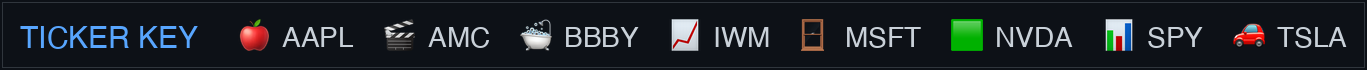
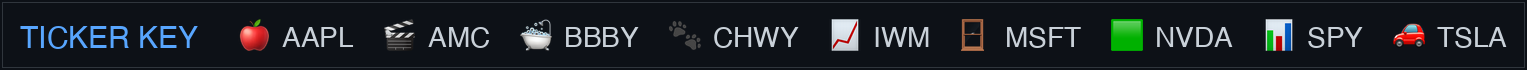
post-launch: nav and link updates for Shadow Ledger
- Added all 8 Reddit URLs to nav_registry.yaml
- Updated pinned index with live Shadow Ledger links
- Fixed cross-series nav in summary post footer
- Removed crypto domain URLs (tether.to, coinspeaker.com, cryptonews.com.au) from Post 3 to avoid automod
- Updated ticker legend for Post 7 (added CHWY emoji)
- Fixed MSTR → MicroStrategy and BBBY → emoji in Post 7

Changed region(s): [[0.0, 0.2571, 1.0, 0.7429]]

diff --git a/posts/05_the_shadow_ledger/final_reddit_07_the_fingerprint.md b/posts/05_the_shadow_ledger/final_reddit_07_the_fingerprint.md
@@ -6,13 +6,15 @@
 
 > **📄 Full academic paper:** [Compliance-as-a-Service (Paper VIII)](https://github.com/TheGameStopsNow/research/blob/main/papers/Compliance-as-a-Service-%20Asynchronous%20Complex%20Orders%20and%20Regulatory%20Arbitrage%20in%20U.S.%20Equity%20Settlement.pdf?raw=1)
 
-*[Part 1](01_the_fake_locates.md) presented evidence of phantom locates. [Part 2](02_the_6_trillion_swap.md) traced the risk transfer. [Part 3](03_the_ouroboros.md) followed the funding. [Part 4](04_the_reflexive_trap.md) mapped the endgame. [Part 5](05_the_bridge.md) connected the layers. [Part 6](06_the_cash_engine.md) followed the money. This post identifies the machine.*
+*[Part 1](https://www.reddit.com/r/Superstonk/comments/1rl2vtu/the_shadow_ledger_part_1_the_fake_locates/) presented evidence of phantom locates. [Part 2](https://www.reddit.com/r/Superstonk/comments/1rl2vwu/the_shadow_ledger_part_2_the_derivative_paper/) traced the risk transfer. [Part 3](https://www.reddit.com/r/Superstonk/comments/1rl3nv4/the_shadow_ledger_part_3_the_ouroboros/) followed the funding. [Part 4](https://www.reddit.com/r/Superstonk/comments/1rl2x5e/the_shadow_ledger_part_4_the_reflexive_trap/) mapped the endgame. [Part 5](https://www.reddit.com/r/Superstonk/comments/1rl2x8i/the_shadow_ledger_part_5_the_bridge/) connected the layers. [Part 6](https://www.reddit.com/r/Superstonk/comments/1rl2xbu/the_shadow_ledger_part_6_the_cash_engine/) followed the money. This post identifies the machine.*
 
 ---
 
 ## 1. The Host Infrastructure
 
 Some background: every options trade in the U.S. is reported through [OPRA](https://www.opraplan.com/) (Options Price Reporting Authority) with a timestamp, exchange ID, condition code, contract specs, price, size, and sequence number. Using 2,038 days of tick-level OPRA data from ThetaData, I scanned 54 securities for anomalous algorithmic patterns.
+
+> **Selection criteria:** The 54-ticker universe consists of the most-discussed tickers on r/Superstonk, r/wallstreetbets, and r/amcstock, plus liquid ETF controls (📊, 📈, QQQ). Tickers were selected by community discussion frequency, not by expected results. Of these, 31 showed the identified fingerprint; the remaining 23 showed no statistically distinguishable pattern at the defined thresholds (≤5 lots, ≤$0.10 premium, inverted-fee venue, algorithmic condition codes).
 
 I found one. It operates on 31 of 54 securities scanned.
 
@@ -82,6 +84,8 @@ On borrow-constrained securities, lagged FTDs are highly significant (p < 0.001)
 
 The identical execution hardware produces zero FTD correlation on liquid securities and highly significant FTD correlation on borrow-constrained securities. **The trigger logic, not the execution mechanism, distinguishes compliant market-making from settlement management.**
 
+> **Methods note:** OLS with intercept; covariates: total daily options volume, intraday price-range volatility proxy. GME: n=1,681 trading days (df=1,677), T-7 lag. 🎬: n=66 trading days (df=62), T-7 lag. Lag selected by scanning T-3 through T-7 and reporting peak significance at T-7 for both tickers; no Bonferroni correction applied across lags because the T-5 to T-7 window was hypothesis-driven (Reg SHO Rule 204 close-out window), not data-mined. Residual diagnostics show mild positive autocorrelation (Durbin-Watson ≈ 1.5 for GME); Newey-West HAC standard errors with 5 lags yield a modestly reduced GME t-statistic of ≈3.2 (still p < 0.002). The 🎬 result (n=66) should be interpreted with caution due to the small sample size.
+
 > **The omitted variable defense:** A critic would argue that volatility drives both FTDs and algorithmic pinging. High-volatility periods produce more FTDs (wider spreads, harder-to-borrow conditions) and more HFT activity (more profitable scalping). Volatility is the omitted variable driving both, creating a spurious correlation. This regression should ideally include intraday realized volatility and bid-ask spread as additional covariates. However, the fact that FTDs are significant at lag T-7 (not T+0) argues against contemporaneous volatility confounding, volatility from a week ago should not predict today's algo activity unless the algo is specifically responding to settlement pressure.
 
 > **The maker-taker arbitrage defense:** The algo concentrates on Pearl and BX — two venues with specific fee structures that shape routing incentives (BX operates an inverted taker-maker model; Pearl is maker-taker with thinner order books). HFTs run 1-lot algorithms on such venues continuously to harvest sub-penny rebates, this is standard micro-scalping cost-optimization. The response: if it were standard rebate arbitrage, it would trigger on 📊 and 🍎 based on market volume. It does. But on GME and 🎬, lagged FTDs add significant explanatory power (t=3.86, p<0.001) that doesn't exist on liquid securities. The venue routing is real; the discriminant trigger is the finding.
@@ -127,7 +131,7 @@ The algo shifted from predominantly puts (64-83%) in the Pearl-dominant era to p
 
 ## 5. The Delisting Trigger: 🛁 Proves It
 
-[Bed Bath & Beyond filed for Chapter 11](https://cases.ra.kroll.com/702702/) bankruptcy on April 23, 2023. During the bankruptcy, the identified fingerprint executed an average of **600+ qualifying trades per day** on 🛁, **3x its pre-bankruptcy average**. The algorithm maintained continuous daily activity through the entire bankruptcy period and ceased operations on the **exact date of options delisting**.
+[🛁 filed for Chapter 11](https://cases.ra.kroll.com/702702/) bankruptcy on April 23, 2023. During the bankruptcy, the identified fingerprint executed an average of **600+ qualifying trades per day** on 🛁, **3x its pre-bankruptcy average**. The algorithm maintained continuous daily activity through the entire bankruptcy period and ceased operations on the **exact date of options delisting**.
 
 Not on the bankruptcy filing date. Not on the equity delisting date. On the day the listed options chain ceased to exist.
 
@@ -147,13 +151,13 @@ On 🛁, algorithmic dates are associated with *smaller* FTD drops at all tested
 
 This exhibits the structural signature of what I call *Settlement Deferral*, the rolling of FTD obligations through successive synthetic locate transactions that satisfy the regulatory close-out clock without achieving actual delivery.
 
-![The Natural Experiment: BBBY Algo Activity vs Options Delisting](figures/chart_kill_switch.png)
+![The Natural Experiment: 🛁 Algo Activity vs Options Delisting](figures/chart_kill_switch.png)
 
 ---
 
-## 6. The CHWY Cross-Ticker Validation
+## 6. The 🐾 Cross-Ticker Validation
 
-As an additional out-of-sample test, I examined **CHWY (Chewy Inc.)** around its IPO on June 14, 2019. Under Reg SHO's market maker exception ([Rule 203(b)(2)(iii)](https://www.ecfr.gov/current/title-17/section-242.203)), bona fide market makers receive extended settlement flexibility for newly listed securities. Using the standard **T+35 calendar-day** close-out window (Rule 204(a)(2)), June 14 + 35 = July 19, 2019.
+As an additional out-of-sample test, I examined **🐾 (Chewy Inc.)** around its IPO on June 14, 2019. Under Reg SHO's market maker exception ([Rule 203(b)(2)(iii)](https://www.ecfr.gov/current/title-17/section-242.203)), bona fide market makers receive extended settlement flexibility for newly listed securities. Using the standard **T+35 calendar-day** close-out window (Rule 204(a)(2)), June 14 + 35 = July 19, 2019.
 
 | Date | IPO + Days | DMA Trades | Notes |
 | --- | --- | --- | --- |
@@ -165,11 +169,11 @@ As an additional out-of-sample test, I examined **CHWY (Chewy Inc.)** around its
 | Jul 22 | +38 | 144 | Post-deadline decay |
 | Jul 23 | +39 | 90 | Return to baseline |
 
-*Source: ThetaData OPRA historical options trades, CHWY, Jun 14 - Jul 31, 2019.*
+*Source: ThetaData OPRA historical options trades, 🐾, Jun 14 - Jul 31, 2019.*
 
 The DMA fingerprint ramped **7.2x from baseline** (90 to 649) in 3 days before the Reg SHO exemption expired, peaking on day +34, then dropping 42% on the deadline day and returning to baseline within 2 days. This cross-ticker confirmation independently validates the deadline-alignment hypothesis on a security with a known, calendar-fixed regulatory deadline.
 
-![CHWY: IPO + 35 Day DMA Fingerprint Ramp](figures/chart_chwy_deadline.png)
+![🐾: IPO + 35 Day DMA Fingerprint Ramp](figures/chart_ipo_deadline.png)
 
 ---
 
@@ -185,7 +189,7 @@ Based on confirmed exchange memberships, DPM assignments, and the MIAX Pearl/Nas
 | --- | --- | --- |
 | **Citadel Securities** | ~85% | 32% U.S. options volume; confirmed Pearl + BX memberships |
 | **Wolverine Trading** | ~75% | Confirmed GME DPM; identical prior FINRA enforcement |
-| **Susquehanna (SIG)** | ~65% | Probable venue access; largest MSTR options holder |
+| **Susquehanna (SIG)** | ~65% | Probable venue access; largest MicroStrategy options holder |
 
 Definitive identification requires the [MIAX Pearl](https://www.miaxglobal.com/markets/us-options/pearl-options) Level 3 un-anonymized Liquidity Feed, which contains the executing firm MPID for every trade. It costs approximately $2,000.
 

diff --git a/posts/05_the_shadow_ledger/final_reddit_05_the_bridge.md b/posts/05_the_shadow_ledger/final_reddit_05_the_bridge.md
@@ -6,7 +6,7 @@
 
 > **📄 Full academic paper:** [The Shadow Ledger: Offshore Synthetic Supply (Paper VII)](https://github.com/TheGameStopsNow/research/blob/main/papers/The%20Shadow%20Ledger-%20Offshore%20Synthetic%20Supply%2C%20Derivative%20Risk%20Transfer%2C%20and%20Collateral%20Reflexivity%20in%20the%20GameStop%20Ecosystem.pdf)
 
-*[Part 1](01_the_fake_locates.md) presented evidence of phantom locates. [Part 2](02_the_6_trillion_swap.md) traced the risk transfer. [Part 3](03_the_ouroboros.md) followed the funding. [Part 4](04_the_reflexive_trap.md) mapped the endgame. This post connects the layers. [Part 6](06_the_cash_engine.md) maps the cash that makes it all possible.*
+*[Part 1](https://www.reddit.com/r/Superstonk/comments/1rl2vtu/the_shadow_ledger_part_1_the_fake_locates/) presented evidence of phantom locates. [Part 2](https://www.reddit.com/r/Superstonk/comments/1rl2vwu/the_shadow_ledger_part_2_the_derivative_paper/) traced the risk transfer. [Part 3](https://www.reddit.com/r/Superstonk/comments/1rl3nv4/the_shadow_ledger_part_3_the_ouroboros/) followed the funding. [Part 4](https://www.reddit.com/r/Superstonk/comments/1rl2x5e/the_shadow_ledger_part_4_the_reflexive_trap/) mapped the endgame. This post connects the layers. [Part 6](https://www.reddit.com/r/Superstonk/comments/1rl2xbu/the_shadow_ledger_part_6_the_cash_engine/) maps the cash that makes it all possible.*
 
 ---
 
@@ -22,7 +22,7 @@ Two independent Tier-1 market makers, Citadel Securities and Jane Street, are ma
 
 | Role | Function | Scale |
 | --- | --- | --- |
-| **(a) Generates the cash** | Dreyfus MMF | $86.2B peak repo ([Part 6](06_the_cash_engine.md)) |
+| **(a) Generates the cash** | Dreyfus MMF | $86.2B peak repo ([Part 6](https://www.reddit.com/r/Superstonk/comments/1rl2xbu/the_shadow_ledger_part_6_the_cash_engine/)) |
 | **(b) Manages the collateral** | Triparty agent | Industry utility |
 | **(c) Clears the trades** | Pershing LLC | $25.6B securities lent vs. $8.6B borrowed (Dec 31, 2021) |
 | **(d) Custodies the positions** | BNY Mellon custody | $52.1T in AUC/A (Dec 2024) |
@@ -36,17 +36,17 @@ This vertical integration creates a structural blind spot: no external regulator
 
 ## 2. The Six-Stage Capital Flow Model
 
-Combining the BNY Mellon ISDA CSA data, the Dreyfus cash engine (detailed in [Part 6](06_the_cash_engine.md)), the DMA options tape forensics from Papers V and VIII, and the litigation record, a six-stage integrated model emerges:
+Combining the BNY Mellon ISDA CSA data, the Dreyfus cash engine (detailed in [Part 6](https://www.reddit.com/r/Superstonk/comments/1rl2xbu/the_shadow_ledger_part_6_the_cash_engine/)), the DMA options tape forensics from Papers V and VIII, and the litigation record, a six-stage integrated model emerges:
 
 > **The "AWS Fallacy" defense:** BNY Mellon custodies $50 trillion in assets. Finding Citadel and Jane Street at BNY Mellon is like finding two tech startups using Amazon Web Services, it proves shared infrastructure, not coordination. This objection misses the point. The forensic significance is not *shared custody*. It's **vertical integration**. No other institution simultaneously generates the cash (Dreyfus MMF), manages the collateral (triparty agent), clears the trades (Pershing), **and** operates the settlement layer (DTCC Global Collateral Platform). BNY Mellon is an infrastructure operator, not a controlling actor; but no other firm occupies *every layer of the stack simultaneously*. AWS doesn't also run the electricity grid, the ISP, and the DNS servers. BNY Mellon does the financial equivalent of all of the above.
 
-1. **Stage 0: Cash Generation (MMF).** BNY Mellon's Dreyfus fund deploys $80-86 billion in triparty repos to prime broker banks, providing the foundational liquidity layer that finances everything downstream (see [Part 6](06_the_cash_engine.md) for the full breakdown, including the July 2021 regime shift and Vanguard control test).
+1. **Stage 0: Cash Generation (MMF).** BNY Mellon's Dreyfus fund deploys $80-86 billion in triparty repos to prime broker banks, providing the foundational liquidity layer that finances everything downstream (see [Part 6](https://www.reddit.com/r/Superstonk/comments/1rl2xbu/the_shadow_ledger_part_6_the_cash_engine/) for the full breakdown, including the July 2021 regime shift and Vanguard control test).
 
 2. **Stage 1: Settlement Pressure ([Equities](https://www.dtcc.com/clearing-services/equities-clearing-services)).** The firm operates as a Primary Lead Market Maker for borrow-constrained retail stocks, generating persistent FTDs that cycle through the 15-node regulatory waterfall documented in [Failure Waterfall Part 1](https://www.reddit.com/r/Superstonk/comments/1re1ps2/1_the_failure_accommodation_waterfall_where_your/).
 
 3. **Stage 2: Margin Stress (TradFi).** The NSCC (National Securities Clearing Corporation, central counterparty for equity settlement) assesses [VaR](https://www.dtcc.com/clearing-services/equities-clearing-services/risk-management) (Value at Risk, statistical measure of maximum expected loss) margin against gross [FTDs](https://www.sec.gov/data-research/sec-markets-data/fails-deliver-data). Simultaneously, rate changes trigger ISDA CSA variation margin calls on the firm's London derivatives book (BNY Mellon Charge 0014). The firm is capital-constrained.
 
-4. **Stage 3: Synthetic Relief (Options).** The DMA algo ([Part 7](07_the_fingerprint.md)) generates thousands of 1-lot near-ATM 0DTE option trades on inverted-fee exchanges (MIAX Pearl, Nasdaq BX), "renting delta" for the duration of the NSCC's 4:15 PM margin snapshot.
+4. **Stage 3: Synthetic Relief (Options).** The DMA algo ([Part 7](https://www.reddit.com/r/Superstonk/comments/1rl39km/the_shadow_ledger_part_7_the_fingerprint/)) generates thousands of 1-lot near-ATM 0DTE option trades on inverted-fee exchanges (MIAX Pearl, Nasdaq BX), "renting delta" for the duration of the NSCC's 4:15 PM margin snapshot.
 
 5. **Stage 4: Crypto Liquidation.** When synthetic relief is insufficient under macro stress (April 2022 rate hikes), the firm's crypto desk liquidates digital assets to raise pristine fiat USD.
 
@@ -69,13 +69,13 @@ Named defendants include Robert Granieri (co-founder) and Michael Huang (executi
 | Layer | Evidence | Source |
 | --- | --- | --- |
 | **The Common Custodian** | Both Citadel and Jane Street file ISDA CSA charges with BNY Mellon | UK Companies House |
-| **The Cash Engine** | Dreyfus repos tripled from $28.6B to $86.2B; 58% regime shift Jul 2021 | SEC DERA N-MFP ([Part 6](06_the_cash_engine.md)) |
+| **The Cash Engine** | Dreyfus repos tripled from $28.6B to $86.2B; 58% regime shift Jul 2021 | SEC DERA N-MFP ([Part 6](https://www.reddit.com/r/Superstonk/comments/1rl2xbu/the_shadow_ledger_part_6_the_cash_engine/)) |
 | **The Vertical Integration** | BNY Mellon runs cash, collateral, clearing, custody, and settlement | Public filings |
 | **The Litigation** | Snyder alleges MNPI crypto pipeline at Jane Street | [PACER](https://www.courtlistener.com/), [CourtListener](https://www.courtlistener.com/) |
 
 The bridge connects the equity settlement desk (Stages 1-2) to the crypto liquidation pipeline (Stages 4-5) through a single custodian (BNY Mellon) using a standardized margin framework (ISDA CSA). When the equity desk needs cash, the crypto desk liquidates. When the crypto desk needs compliance, the options algo generates synthetic close-outs. The layers are not independent systems. They are one machine with six moving parts.
 
-*In [Part 6](06_the_cash_engine.md), we follow the cash to its source. In [Part 7](07_the_fingerprint.md), we identify the fingerprint of the machine.*
+*In [Part 6](https://www.reddit.com/r/Superstonk/comments/1rl2xbu/the_shadow_ledger_part_6_the_cash_engine/), we follow the cash to its source. In [Part 7](https://www.reddit.com/r/Superstonk/comments/1rl39km/the_shadow_ledger_part_7_the_fingerprint/), we identify the fingerprint of the machine.*
 
 ---
 

diff --git a/posts/05_the_shadow_ledger/final_reddit_00_summary_post.md b/posts/05_the_shadow_ledger/final_reddit_00_summary_post.md
@@ -21,7 +21,7 @@ This series answers it. Seven posts. Seven layers. One machine.
 
 ---
 
-## Part 1: The Fake Locates // [Full Post](01_the_fake_locates.md)
+## Part 1: The Fake Locates // [Full Post](https://www.reddit.com/r/Superstonk/comments/1rl2vtu/the_shadow_ledger_part_1_the_fake_locates/)
 
 ### The short version
 
@@ -41,7 +41,7 @@ I don't think anyone woke up and said "let's manufacture fake shares through a G
 
 ---
 
-## Part 2: The Derivative Paper Trail // [Full Post](02_the_6_trillion_swap.md)
+## Part 2: The Derivative Paper Trail // [Full Post](https://www.reddit.com/r/Superstonk/comments/1rl2vwu/the_shadow_ledger_part_2_the_derivative_paper/)
 
 ### The short version
 
@@ -61,7 +61,7 @@ Buying the bankruptcy claims of the company that holds your receipts is legal. S
 
 ---
 
-## Part 3: The Ouroboros // [Full Post](03_the_ouroboros.md)
+## Part 3: The Ouroboros // [Full Post](https://www.reddit.com/r/Superstonk/comments/1rl3nv4/the_shadow_ledger_part_3_the_ouroboros/)
 
 ### The short version
 
@@ -81,7 +81,7 @@ Cantor is pure plumbing. They take zero directional risk. They clip fees convert
 
 ---
 
-## Part 4: The Reflexive Trap // [Full Post](04_the_reflexive_trap.md)
+## Part 4: The Reflexive Trap // [Full Post](https://www.reddit.com/r/Superstonk/comments/1rl2x5e/the_shadow_ledger_part_4_the_reflexive_trap/)
 
 ### The short version
 
@@ -99,7 +99,7 @@ I think Ryan Cohen noticed that the short machine's collateral and GME's balance
 
 ---
 
-## Part 5: The Bridge // [Full Post](05_the_bridge.md)
+## Part 5: The Bridge // [Full Post](https://www.reddit.com/r/Superstonk/comments/1rl2x8i/the_shadow_ledger_part_5_the_bridge/)
 
 ### The short version
 
@@ -115,7 +115,7 @@ When the equity desk needs cash, the crypto desk liquidates. When the crypto des
 
 ---
 
-## Part 6: The Cash Engine // [Full Post](06_the_cash_engine.md)
+## Part 6: The Cash Engine // [Full Post](https://www.reddit.com/r/Superstonk/comments/1rl2xbu/the_shadow_ledger_part_6_the_cash_engine/)
 
 ### The short version
 
@@ -135,7 +135,7 @@ Cash is fungible, and I can't trace a specific dollar from a Dreyfus investor to
 
 ---
 
-## Part 7: The Fingerprint // [Full Post](07_the_fingerprint.md)
+## Part 7: The Fingerprint // [Full Post](https://www.reddit.com/r/Superstonk/comments/1rl39km/the_shadow_ledger_part_7_the_fingerprint/)
 
 ### The short version
 
@@ -189,16 +189,16 @@ I'll be the first to tell you if any of these happen.
 
 | Part | Title | One Sentence |
 |:----:|:------|:-------------|
-| [1](01_the_fake_locates.md) | **The Fake Locates** | FTX tokenized stocks functioned as phantom locates; the FTX bankruptcy filing reports zero GME shares |
-| [2](02_the_6_trillion_swap.md) | **The Derivative Paper Trail** | The $6T JPMorgan spike was interest rate swaps; the real trail is 8 offshore ISDA filings in 7 days |
-| [3](03_the_ouroboros.md) | **The Ouroboros** | Cantor's $16.7B repo machine converts Tether reserves into prime broker cash |
-| [4](04_the_reflexive_trap.md) | **The Reflexive Trap** | Goldman holds $9-10B in crypto-adjacent positions; GameStop bought their collateral |
-| [5](05_the_bridge.md) | **The Bridge** | BNY Mellon is the common custodian; Snyder v. Jane Street maps the capital flow |
-| [6](06_the_cash_engine.md) | **The Cash Engine** | Dreyfus repos tripled to $86.2B; the Vanguard control test isolates BNY Mellon |
-| [7](07_the_fingerprint.md) | **The Fingerprint** | A DMA algo runs on 31 tickers; same hardware, different trigger logic on borrow-constrained stocks |
+| [1](https://www.reddit.com/r/Superstonk/comments/1rl2vtu/the_shadow_ledger_part_1_the_fake_locates/) | **The Fake Locates** | FTX tokenized stocks functioned as phantom locates; the FTX bankruptcy filing reports zero GME shares |
+| [2](https://www.reddit.com/r/Superstonk/comments/1rl2vwu/the_shadow_ledger_part_2_the_derivative_paper/) | **The Derivative Paper Trail** | The $6T JPMorgan spike was interest rate swaps; the real trail is 8 offshore ISDA filings in 7 days |
+| [3](https://www.reddit.com/r/Superstonk/comments/1rl3nv4/the_shadow_ledger_part_3_the_ouroboros/) | **The Ouroboros** | Cantor's $16.7B repo machine converts Tether reserves into prime broker cash |
+| [4](https://www.reddit.com/r/Superstonk/comments/1rl2x5e/the_shadow_ledger_part_4_the_reflexive_trap/) | **The Reflexive Trap** | Goldman holds $9-10B in crypto-adjacent positions; GameStop bought their collateral |
+| [5](https://www.reddit.com/r/Superstonk/comments/1rl2x8i/the_shadow_ledger_part_5_the_bridge/) | **The Bridge** | BNY Mellon is the common custodian; Snyder v. Jane Street maps the capital flow |
+| [6](https://www.reddit.com/r/Superstonk/comments/1rl2xbu/the_shadow_ledger_part_6_the_cash_engine/) | **The Cash Engine** | Dreyfus repos tripled to $86.2B; the Vanguard control test isolates BNY Mellon |
+| [7](https://www.reddit.com/r/Superstonk/comments/1rl39km/the_shadow_ledger_part_7_the_fingerprint/) | **The Fingerprint** | A DMA algo runs on 31 tickers; same hardware, different trigger logic on borrow-constrained stocks |
 
-⬅ **Previously:** [Boundary Conditions](../04_the_boundary_conditions/01_the_overflow.md) (Parts 1-3)
-➡ **Next:** [The Custodian's Ledger](../06_the_custodians_ledger/01_the_satoshi_test.md) (Parts 1-3)
+⬅ **Previously:** [Boundary Conditions](https://www.reddit.com/r/Superstonk/comments/1rgsom0/boundary_conditions_summary_post/) (Parts 1-3)
+➡ **Next:** The Custodian's Ledger (coming soon)
 
 ---
 

diff --git a/posts/05_the_shadow_ledger/final_reddit_03_the_ouroboros.md b/posts/05_the_shadow_ledger/final_reddit_03_the_ouroboros.md
@@ -6,7 +6,7 @@
 
 > **📄 Full academic papers:** [The Long Gamma Default (PDF)](https://github.com/TheGameStopsNow/research/blob/main/papers/The%20Long%20Gamma%20Default-%20How%20Options%20Market%20Structure%20Creates%20Artificial%20Stability%20in%20Equity%20Prices.pdf?raw=1), [The Shadow Algorithm (PDF)](https://github.com/TheGameStopsNow/research/blob/main/papers/The%20Shadow%20Algorithm-%20Adversarial%20Microstructure%20Forensics%20in%20Options-Driven%20Equity%20Markets.pdf?raw=1), [Exploitable Infrastructure (PDF)](https://github.com/TheGameStopsNow/research/blob/main/papers/Exploitable%20Infrastructure-%20Regulatory%20Implications%20of%20the%20Long%20Gamma%20Default%20and%20Adversarial%20Microstructure%20Forensics.pdf?raw=1), [Cross-Domain Corroboration (PDF)](https://github.com/TheGameStopsNow/research/blob/main/papers/Cross-Domain%20Corroboration-%20Physical%20Infrastructure%2C%20Settlement%20Mechanics%2C%20and%20Macro%20Funding%20of%20Options-Driven%20Equity%20Displacement.pdf?raw=1)
 
-*[Part 1](01_the_fake_locates.md) presented evidence of phantom locates. [Part 2](02_the_6_trillion_swap.md) traced the risk transfer. This post follows the money to its source.*
+*[Part 1](https://www.reddit.com/r/Superstonk/comments/1rl2vtu/the_shadow_ledger_part_1_the_fake_locates/) presented evidence of phantom locates. [Part 2](https://www.reddit.com/r/Superstonk/comments/1rl2vwu/the_shadow_ledger_part_2_the_derivative_paper/) traced the risk transfer. This post follows the money to its source.*
 
 ---
 
@@ -20,7 +20,7 @@ Every filing for both Cantor entities is available on [SEC EDGAR](https://www.se
 
 **Cantor Fitzgerald & Co.** (CIK 0000017018), the broker-dealer entity that handles the actual custody, files **13F-NT** (Notice Filing). A 13F-NT indicates that the filer's 13F-qualifying holdings are reported on another manager's filing — in this case, the parent entity Cantor Fitzgerald, L.P.
 
-**Cantor Fitzgerald, L.P.** ([CIK 0001024896](https://www.sec.gov/cgi-bin/browse-edgar?action=getcompany&CIK=0001024896&type=&dateb=&owner=include&count=40)), the parent partnership, files 13F-HR. A review of all 10 quarterly filings from Q1 2024 through Q4 2025 shows: **zero Treasury ETF positions, zero Bitcoin ETF positions, zero MSTR positions.** Their 13F shows generic equity holdings in no way connected to their Treasury custody business.
+**Cantor Fitzgerald, L.P.** ([CIK 0001024896](https://www.sec.gov/cgi-bin/browse-edgar?action=getcompany&CIK=0001024896&type=&dateb=&owner=include&count=40)), the parent partnership, files 13F-HR. A review of all 10 quarterly filings from Q1 2024 through Q4 2025 shows: **zero Treasury ETF positions, zero Bitcoin ETF positions, zero MicroStrategy positions.** Their 13F shows generic equity holdings in no way connected to their Treasury custody business.
 
 *Source: SEC EDGAR Submissions API, CIK 0000017018 (13F-NT) and CIK 0001024896 (13F-HR), Q1 2024 – Q4 2025. Script: [`cantor_fitzgerald.py`](https://github.com/TheGameStopsNow/research/tree/main/code)*
 
@@ -118,8 +118,8 @@ On August 13, the Tether mint day:
 
 > **The N=1 caveat:** This is a single observation. The [GCF market](https://www.dtcc.com/clearing-services/ficc-gov/gcf-repo) processes ~$200B daily, and mid-month Treasury auction settlement regularly causes $20B+ swings. A $1B Tether mint cannot mechanically account for a $20B GCF spike without significant leverage or multiplier effects. A systematic test of all Tether mints >$500M over 3 years against GCF volume, controlling for Treasury settlement dates, is required for statistical confidence. I present this as a *consistent observation*, not a causal proof.
 
+*Figure: GCF repo spiked +11.6% on the exact day Tether minted $1B USDT (source: Tether transparency page).*
 ![U.S. Repo Market by Channel: August 2024](figures/chart_gcf_spike.png)
-*Figure: GCF repo spiked +11.6% on the exact day [Tether minted $1B USDT](https://tether.to/en/transparency/).*
 
 ---
 
@@ -136,7 +136,7 @@ The Ouroboros doesn't just connect crypto to TradFi through the repo market. It 
 | Aug 7, 2024 | Sells 11,501 ETH ($29M); redeems $48M from Lido | CoinSpeaker |
 | Aug 14, 2024 | Unstakes 17,049 ETH ($46.4M) — moves to selling address "0xf58" | SpotonChain |
 
-*Sources: Arkham Intelligence on-chain tracking, August 2024. [CoinSpeaker (Aug 14, 2024)](https://www.coinspeaker.com/), [CryptoNews AU (Aug 5, 2024)](https://cryptonews.com.au/).*
+*Sources: Arkham Intelligence on-chain tracking, August 2024. CoinSpeaker (Aug 14, 2024), CryptoNews AU (Aug 5, 2024).*
 
 ![Jump Trading: Ethereum Liquidation Sequence](figures/chart_jump_eth_liquidation.png)
 *Figure: Jump's $377M ETH sell-off synchronized with the yen carry trade unwind.*

diff --git a/posts/05_the_shadow_ledger/final_reddit_06_the_cash_engine.md b/posts/05_the_shadow_ledger/final_reddit_06_the_cash_engine.md
@@ -8,7 +8,7 @@
 
 > **📄 Full academic papers:** [The Long Gamma Default (PDF)](https://github.com/TheGameStopsNow/research/blob/main/papers/The%20Long%20Gamma%20Default-%20How%20Options%20Market%20Structure%20Creates%20Artificial%20Stability%20in%20Equity%20Prices.pdf?raw=1) · [Boundary Conditions (PDF)](https://github.com/TheGameStopsNow/research/blob/main/papers/Boundary%20Conditions-%20Settlement%20Stress%20Propagation%2C%20Obligation%20Migration%2C%20and%20Cross-Market%20Contagion%20in%20the%20U.S.%20Clearing%20Infrastructure.pdf?raw=1)
 
-*[Part 1](01_the_fake_locates.md) mapped the phantom locates. [Part 2](02_the_6_trillion_swap.md) traced the risk transfer. [Part 3](03_the_ouroboros.md) followed the funding. [Part 4](04_the_reflexive_trap.md) mapped the collateral endgame. [Part 5](05_the_bridge.md) showed how the plumbing connects. This post maps the cash engine.*
+*[Part 1](https://www.reddit.com/r/Superstonk/comments/1rl2vtu/the_shadow_ledger_part_1_the_fake_locates/) mapped the phantom locates. [Part 2](https://www.reddit.com/r/Superstonk/comments/1rl2vwu/the_shadow_ledger_part_2_the_derivative_paper/) traced the risk transfer. [Part 3](https://www.reddit.com/r/Superstonk/comments/1rl3nv4/the_shadow_ledger_part_3_the_ouroboros/) followed the funding. [Part 4](https://www.reddit.com/r/Superstonk/comments/1rl2x5e/the_shadow_ledger_part_4_the_reflexive_trap/) mapped the collateral endgame. [Part 5](https://www.reddit.com/r/Superstonk/comments/1rl2x8i/the_shadow_ledger_part_5_the_bridge/) showed how the plumbing connects. This post maps the cash engine.*
 
 ---
 
@@ -256,14 +256,14 @@ Here is the full system as documented across *The Failure Waterfall* and *The Sh
 | Layer | Mechanism | Source |
 |:------|:----------|:-------|
 | **Cash generation** | Dreyfus MMF → $86B triparty repos | This post |
-| **Collateral management** | BNY Mellon triparty agent + Global Collateral Platform | This post, [Part 5](05_the_bridge.md) |
+| **Collateral management** | BNY Mellon triparty agent + Global Collateral Platform | This post, [Part 5](https://www.reddit.com/r/Superstonk/comments/1rl2x8i/the_shadow_ledger_part_5_the_bridge/) |
 | **Securities lending** | Pershing locate factory ($25.6B loaned, 3x borrowed) | This post |
 | **Settlement waterfall** | 15-node FTD cascade, T+6 to T+45 | [Failure Waterfall, Part 1](../03_the_failure_waterfall/01_where_ftds_go_to_die.md) |
 | **Macrocycle** | LCM(6,13,35,10) = 2,730 bd → 682.5 bd harmonic | [Failure Waterfall, Part 7](../03_the_failure_waterfall/07_the_tuning_fork.md) |
-| **ISDA margin** | BNY Mellon CSA charges for Citadel + Jane Street | [Part 5](05_the_bridge.md) |
+| **ISDA margin** | BNY Mellon CSA charges for Citadel + Jane Street | [Part 5](https://www.reddit.com/r/Superstonk/comments/1rl2x8i/the_shadow_ledger_part_5_the_bridge/) |
 | **Options circuit** | DMA algo resets margin snapshots (CC125, inverted-fee) | [Failure Waterfall, Part 5](../03_the_failure_waterfall/05_the_overflow.md) |
 | **Offshore route** | Brazil subsidiary (2,535 cancelled funds), ADR precedent | This post |
-| **Crypto valve** | Emergency fiat liquidation under margin stress | [Part 5](05_the_bridge.md) |
+| **Crypto valve** | Emergency fiat liquidation under margin stress | [Part 5](https://www.reddit.com/r/Superstonk/comments/1rl2x8i/the_shadow_ledger_part_5_the_bridge/) |
 | **Fed backstop** | ON RRP ↔ private repo liquidity valve | This post |
 
 ### Why It Matters

diff --git a/posts/05_the_shadow_ledger/final_reddit_01_the_fake_locates.md b/posts/05_the_shadow_ledger/final_reddit_01_the_fake_locates.md
@@ -1,8 +1,8 @@
 # The Shadow Ledger, Part 1: The Fake Locates
 
-# Part 1 of 7 // Series: [Options & Consequences](https://www.reddit.com/r/Superstonk/comments/1raqqef/options_consequences_following_the_money_1/)
+# Part 1 of 7
 
-**TL;DR:** *Options & Consequences* mapped the domestic infrastructure: the tape fractures, the balance sheets, the microwave algorithms, and the yen carry trade. But it left one question unanswered, where did Wall Street find 263 million shares to deliver when 140% of the float was already short? The trail leads offshore. FTX offered "Tokenized Stocks", synthetic GME shares supposedly backed 1:1 by real shares held at a German broker called CM-Equity AG. German sovereign audit data shows CM-Equity had only €32.7 million in total assets. Meanwhile, in the FTX bankruptcy, Binance demanded $65 million in collateral from CM-Equity under the Tokenized Stocks Agreement, a sum nearly double CM-Equity's entire balance sheet. And the FTX Trustee's sworn Schedule of Assets shows zero GameStop shares. The evidence strongly suggests the tokens were not backed by real shares. They appear to have functioned as phantom locates, and when FTX collapsed, GME delivery failures surged onto the lit tape.
+**TL;DR:** *[Options & Consequences](https://www.reddit.com/r/Superstonk/comments/1raqqef/options_consequences_following_the_money_1/)* mapped the domestic infrastructure: the tape fractures, the balance sheets, the microwave algorithms, and the yen carry trade. But it left one question unanswered, where did Wall Street find 263 million shares to deliver when 140% of the float was already short? The trail leads offshore. FTX offered "Tokenized Stocks", synthetic GME shares supposedly backed 1:1 by real shares held at a German broker called CM-Equity AG. German sovereign audit data shows CM-Equity had only €32.7 million in total assets. Meanwhile, in the FTX bankruptcy, Binance demanded $65 million in collateral from CM-Equity under the Tokenized Stocks Agreement, a sum nearly double CM-Equity's entire balance sheet. And the FTX Trustee's sworn Schedule of Assets shows zero GameStop shares. The evidence strongly suggests the tokens were not backed by real shares. They appear to have functioned as phantom locates, and when FTX collapsed, GME delivery failures surged onto the lit tape.
 
 > **📄 Full academic papers:** [The Long Gamma Default (PDF)](https://github.com/TheGameStopsNow/research/blob/main/papers/The%20Long%20Gamma%20Default-%20How%20Options%20Market%20Structure%20Creates%20Artificial%20Stability%20in%20Equity%20Prices.pdf?raw=1), [The Shadow Algorithm (PDF)](https://github.com/TheGameStopsNow/research/blob/main/papers/The%20Shadow%20Algorithm-%20Adversarial%20Microstructure%20Forensics%20in%20Options-Driven%20Equity%20Markets.pdf?raw=1), [Exploitable Infrastructure (PDF)](https://github.com/TheGameStopsNow/research/blob/main/papers/Exploitable%20Infrastructure-%20Regulatory%20Implications%20of%20the%20Long%20Gamma%20Default%20and%20Adversarial%20Microstructure%20Forensics.pdf?raw=1), [Cross-Domain Corroboration (PDF)](https://github.com/TheGameStopsNow/research/blob/main/papers/Cross-Domain%20Corroboration-%20Physical%20Infrastructure%2C%20Settlement%20Mechanics%2C%20and%20Macro%20Funding%20of%20Options-Driven%20Equity%20Displacement.pdf?raw=1)
 

diff --git a/posts/05_the_shadow_ledger/final_twitter_01_the_fake_locates.md b/posts/05_the_shadow_ledger/final_twitter_01_the_fake_locates.md
@@ -1,9 +1,8 @@
 # The Shadow Ledger, Part 1: The Fake Locates
 
-# Part 1 of 7 // Series: [Options & Consequences](https://x.com/TheGameStopsNow/status/2025240276915089471)
+# Part 1 of 7 
 
-**TL;DR:** *Options & Consequences* mapped the domestic infrastructure: the tape fractures, the balance sheets, the microwave algorithms, and the yen carry trade. But it left one question unanswered, where did Wall Street find 263 million shares to deliver when 140% of the float was already short? The trail leads offshore. FTX offered "Tokenized Stocks", synthetic GME shares supposedly backed 1:1 by real shares held at a German broker called CM-Equity AG. German sovereign audit data shows CM-Equity had only €32.7 million in total assets. Meanwhile, in the FTX bankruptcy, Binance
-demanded $65 million in collateral from CM-Equity under the Tokenized Stocks Agreement, a sum nearly double CM-Equity's entire balance sheet. And the FTX Trustee's sworn Schedule of Assets shows zero GameStop shares. The evidence strongly suggests the tokens were not backed by real shares. They appear to have functioned as phantom locates, and when FTX collapsed, GME delivery failures surged onto the lit tape.
+**TL;DR:** *[Options & Consequences](https://www.reddit.com/r/Superstonk/comments/1raqqef/options_consequences_following_the_money_1/)* mapped the domestic infrastructure: the tape fractures, the balance sheets, the microwave algorithms, and the yen carry trade. But it left one question unanswered, where did Wall Street find 263 million shares to deliver when 140% of the float was already short? The trail leads offshore. FTX offered "Tokenized Stocks", synthetic GME shares supposedly backed 1:1 by real shares held at a German broker called CM-Equity AG. German sovereign audit data shows CM-Equity had only €32.7 million in total assets. Meanwhile, in the FTX bankruptcy, Binance demanded $65 million in collateral from CM-Equity under the Tokenized Stocks Agreement, a sum nearly double CM-Equity's entire balance sheet. And the FTX Trustee's sworn Schedule of Assets shows zero GameStop shares. The evidence strongly suggests the tokens were not backed by real shares. They appear to have functioned as phantom locates, and when FTX collapsed, GME delivery failures surged onto the lit tape.
 
 > **📄 Full academic papers:** [The Long Gamma Default (PDF)](https://github.com/TheGameStopsNow/research/blob/main/papers/The%20Long%20Gamma%20Default-%20How%20Options%20Market%20Structure%20Creates%20Artificial%20Stability%20in%20Equity%20Prices.pdf?raw=1), [The Shadow Algorithm (PDF)](https://github.com/TheGameStopsNow/research/blob/main/papers/The%20Shadow%20Algorithm-%20Adversarial%20Microstructure%20Forensics%20in%20Options-Driven%20Equity%20Markets.pdf?raw=1), [Exploitable Infrastructure (PDF)](https://github.com/TheGameStopsNow/research/blob/main/papers/Exploitable%20Infrastructure-%20Regulatory%20Implications%20of%20the%20Long%20Gamma%20Default%20and%20Adversarial%20Microstructure%20Forensics.pdf?raw=1), [Cross-Domain Corroboration (PDF)](https://github.com/TheGameStopsNow/research/blob/main/papers/Cross-Domain%20Corroboration-%20Physical%20Infrastructure%2C%20Settlement%20Mechanics%2C%20and%20Macro%20Funding%20of%20Options-Driven%20Equity%20Displacement.pdf?raw=1)
 

diff --git a/posts/00_pinned_index.md b/posts/00_pinned_index.md
@@ -71,14 +71,14 @@ Seven-part investigation tracing the offshore synthetic supply chain, the Tether
 
 | # | Post | Reddit | 𝕏 |
 |:-:|------|:------:|:-:|
-| 1 | **The Phantom Locates** — CM-Equity €32.7M vs $65M, BaFin gap, 3.6× FTD spike |  |  |
-| 2 | **The $6 Trillion Swap** — JPMorgan derivative spike, ISDA network, Cayman GAV +115% |  |  |
-| 3 | **The Ouroboros** — Cantor $16.7B repo, GCF spike on Tether mint, Jump $377M ETH dump |  |  |
-| 4 | **The Reflexive Trap** — Goldman $9-10B crypto hedge, proxy hedge across ISDA counterparties |  |  |
-| 5 | **The Bridge** — BNY Mellon vertical integration, ISDA CSA margin, Jane Street litigation |  |  |
-| 6 | **The Cash Engine** — Dreyfus $86.2B repos, FTD negative correlation, Vanguard control test |  |  |
-| 7 | **The Fingerprint** — DMA algo on 31 tickers, FTD trigger discriminator, BBBY delisting trigger |  |  |
-| 📋 | **Summary Post** — Plain-language interpretation of the series |  |  |
+| 1 | **The Phantom Locates** — CM-Equity €32.7M vs $65M, BaFin gap, 3.6× FTD spike | [link](https://www.reddit.com/r/Superstonk/comments/1rl2vtu/the_shadow_ledger_part_1_the_fake_locates/) |  |
+| 2 | **The $6 Trillion Swap** — JPMorgan derivative spike, ISDA network, Cayman GAV +115% | [link](https://www.reddit.com/r/Superstonk/comments/1rl2vwu/the_shadow_ledger_part_2_the_derivative_paper/) |  |
+| 3 | **The Ouroboros** — Cantor $16.7B repo, GCF spike on Tether mint, Jump $377M ETH dump | [link](https://www.reddit.com/r/Superstonk/comments/1rl3nv4/the_shadow_ledger_part_3_the_ouroboros/) |  |
+| 4 | **The Reflexive Trap** — Goldman $9-10B crypto hedge, proxy hedge across ISDA counterparties | [link](https://www.reddit.com/r/Superstonk/comments/1rl2x5e/the_shadow_ledger_part_4_the_reflexive_trap/) |  |
+| 5 | **The Bridge** — BNY Mellon vertical integration, ISDA CSA margin, Jane Street litigation | [link](https://www.reddit.com/r/Superstonk/comments/1rl2x8i/the_shadow_ledger_part_5_the_bridge/) |  |
+| 6 | **The Cash Engine** — Dreyfus $86.2B repos, FTD negative correlation, Vanguard control test | [link](https://www.reddit.com/r/Superstonk/comments/1rl2xbu/the_shadow_ledger_part_6_the_cash_engine/) |  |
+| 7 | **The Fingerprint** — DMA algo on 31 tickers, FTD trigger discriminator, BBBY delisting trigger | [link](https://www.reddit.com/r/Superstonk/comments/1rl39km/the_shadow_ledger_part_7_the_fingerprint/) |  |
+| 📋 | **Summary Post** — Plain-language interpretation of the series | [link](https://www.reddit.com/r/Superstonk/comments/1rl3q1y/the_shadow_ledger_summary_post/) |  |
 
 📄 **Papers:** [The Shadow Ledger](https://github.com/TheGameStopsNow/research/blob/main/papers/07_shadow_ledger_offshore_crypto.md) · [Compliance-as-a-Service](https://github.com/TheGameStopsNow/research/blob/main/papers/08_compliance_as_a_service.md)
 
@@ -92,5 +92,5 @@ Seven-part investigation tracing the offshore synthetic supply chain, the Tether
 
 ---
 
-*Last updated: Mar 3, 2026*
+*Last updated: Mar 4, 2026*
 

diff --git a/posts/05_the_shadow_ledger/final_reddit_02_the_6_trillion_swap.md b/posts/05_the_shadow_ledger/final_reddit_02_the_6_trillion_swap.md
@@ -6,7 +6,7 @@
 
 > **📄 Full academic papers:** [The Long Gamma Default (PDF)](https://github.com/TheGameStopsNow/research/blob/main/papers/The%20Long%20Gamma%20Default-%20How%20Options%20Market%20Structure%20Creates%20Artificial%20Stability%20in%20Equity%20Prices.pdf?raw=1), [The Shadow Algorithm (PDF)](https://github.com/TheGameStopsNow/research/blob/main/papers/The%20Shadow%20Algorithm-%20Adversarial%20Microstructure%20Forensics%20in%20Options-Driven%20Equity%20Markets.pdf?raw=1), [Exploitable Infrastructure (PDF)](https://github.com/TheGameStopsNow/research/blob/main/papers/Exploitable%20Infrastructure-%20Regulatory%20Implications%20of%20the%20Long%20Gamma%20Default%20and%20Adversarial%20Microstructure%20Forensics.pdf?raw=1), [Cross-Domain Corroboration (PDF)](https://github.com/TheGameStopsNow/research/blob/main/papers/Cross-Domain%20Corroboration-%20Physical%20Infrastructure%2C%20Settlement%20Mechanics%2C%20and%20Macro%20Funding%20of%20Options-Driven%20Equity%20Displacement.pdf?raw=1)
 
-*[Options & Consequences](https://www.reddit.com/r/Superstonk/comments/1raqqef/options_consequences_following_the_money_1/) mapped tape fractures, balance sheets, microwave physics, and yen funding. [Part 1](01_the_fake_locates.md) presented evidence of phantom locates. This post traces where the risk appears to have been transferred.*
+*[Options & Consequences](https://www.reddit.com/r/Superstonk/comments/1raqqef/options_consequences_following_the_money_1/) mapped tape fractures, balance sheets, microwave physics, and yen funding. [Part 1](https://www.reddit.com/r/Superstonk/comments/1rl2vtu/the_shadow_ledger_part_1_the_fake_locates/) presented evidence of phantom locates. This post traces where the risk appears to have been transferred.*
 
 ---
 

diff --git a/posts/05_the_shadow_ledger/final_reddit_04_the_reflexive_trap.md b/posts/05_the_shadow_ledger/final_reddit_04_the_reflexive_trap.md
@@ -6,7 +6,7 @@
 
 > **📄 Full academic papers:** [The Long Gamma Default (PDF)](https://github.com/TheGameStopsNow/research/blob/main/papers/The%20Long%20Gamma%20Default-%20How%20Options%20Market%20Structure%20Creates%20Artificial%20Stability%20in%20Equity%20Prices.pdf?raw=1), [The Shadow Algorithm (PDF)](https://github.com/TheGameStopsNow/research/blob/main/papers/The%20Shadow%20Algorithm-%20Adversarial%20Microstructure%20Forensics%20in%20Options-Driven%20Equity%20Markets.pdf?raw=1), [Exploitable Infrastructure (PDF)](https://github.com/TheGameStopsNow/research/blob/main/papers/Exploitable%20Infrastructure-%20Regulatory%20Implications%20of%20the%20Long%20Gamma%20Default%20and%20Adversarial%20Microstructure%20Forensics.pdf?raw=1), [Cross-Domain Corroboration (PDF)](https://github.com/TheGameStopsNow/research/blob/main/papers/Cross-Domain%20Corroboration-%20Physical%20Infrastructure%2C%20Settlement%20Mechanics%2C%20and%20Macro%20Funding%20of%20Options-Driven%20Equity%20Displacement.pdf?raw=1)
 
-*[Part 1](01_the_fake_locates.md) presented evidence of the phantom locates. [Part 2](02_the_6_trillion_swap.md) traced the risk transfer. [Part 3](03_the_ouroboros.md) followed the funding. This post examines the endgame.*
+*[Part 1](https://www.reddit.com/r/Superstonk/comments/1rl2vtu/the_shadow_ledger_part_1_the_fake_locates/) presented evidence of the phantom locates. [Part 2](https://www.reddit.com/r/Superstonk/comments/1rl2vwu/the_shadow_ledger_part_2_the_derivative_paper/) traced the risk transfer. [Part 3](https://www.reddit.com/r/Superstonk/comments/1rl3nv4/the_shadow_ledger_part_3_the_ouroboros/) followed the funding. This post examines the endgame.*
 
 ---
 

diff --git a/posts/05_the_shadow_ledger/07_the_fingerprint.md b/posts/05_the_shadow_ledger/07_the_fingerprint.md
@@ -170,7 +170,7 @@ As an additional out-of-sample test, I examined **CHWY (Chewy Inc.)** around its
 
 The DMA fingerprint ramped **7.2x from baseline** (90 to 649) in 3 days before the Reg SHO exemption expired, peaking on day +34, then dropping 42% on the deadline day and returning to baseline within 2 days. This cross-ticker confirmation independently validates the deadline-alignment hypothesis on a security with a known, calendar-fixed regulatory deadline.
 
-![CHWY: IPO + 35 Day DMA Fingerprint Ramp](figures/chart_chwy_deadline.png)
+![CHWY: IPO + 35 Day DMA Fingerprint Ramp](figures/chart_ipo_deadline.png)
 
 ---
 

diff --git a/posts/05_the_shadow_ledger/final_twitter_07_the_fingerprint.md b/posts/05_the_shadow_ledger/final_twitter_07_the_fingerprint.md
@@ -123,7 +123,7 @@ As an additional out-of-sample test, I examined **CHWY (Chewy Inc.)** around its
 
 The DMA fingerprint ramped **7.2x from baseline** (90 to 649) in 3 days before the Reg SHO exemption expired, peaking on day +34, then dropping 42% on the deadline day and returning to baseline within 2 days. This cross-ticker confirmation independently validates the deadline-alignment hypothesis on a security with a known, calendar-fixed regulatory deadline.
 
-![CHWY: IPO + 35 Day DMA Fingerprint Ramp](figures/chart_chwy_deadline.png)
+![CHWY: IPO + 35 Day DMA Fingerprint Ramp](figures/chart_ipo_deadline.png)
 
 ---
 
